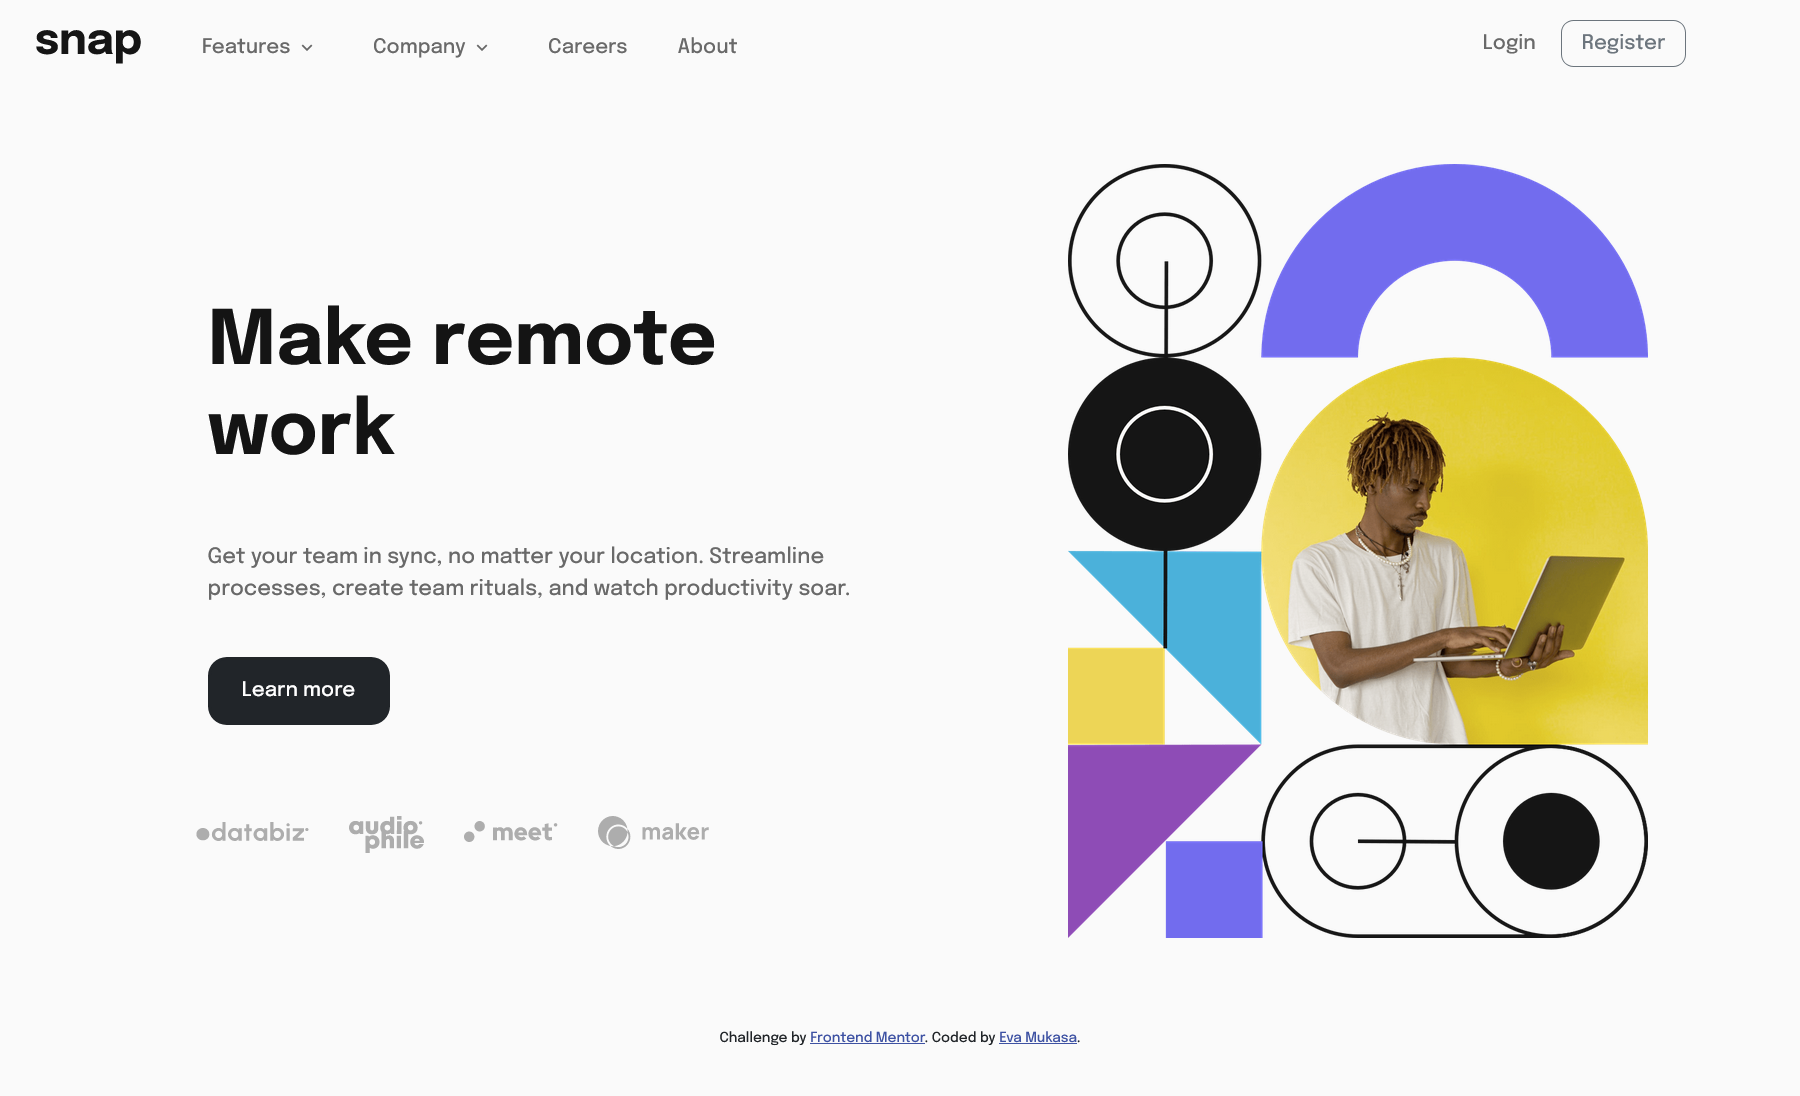
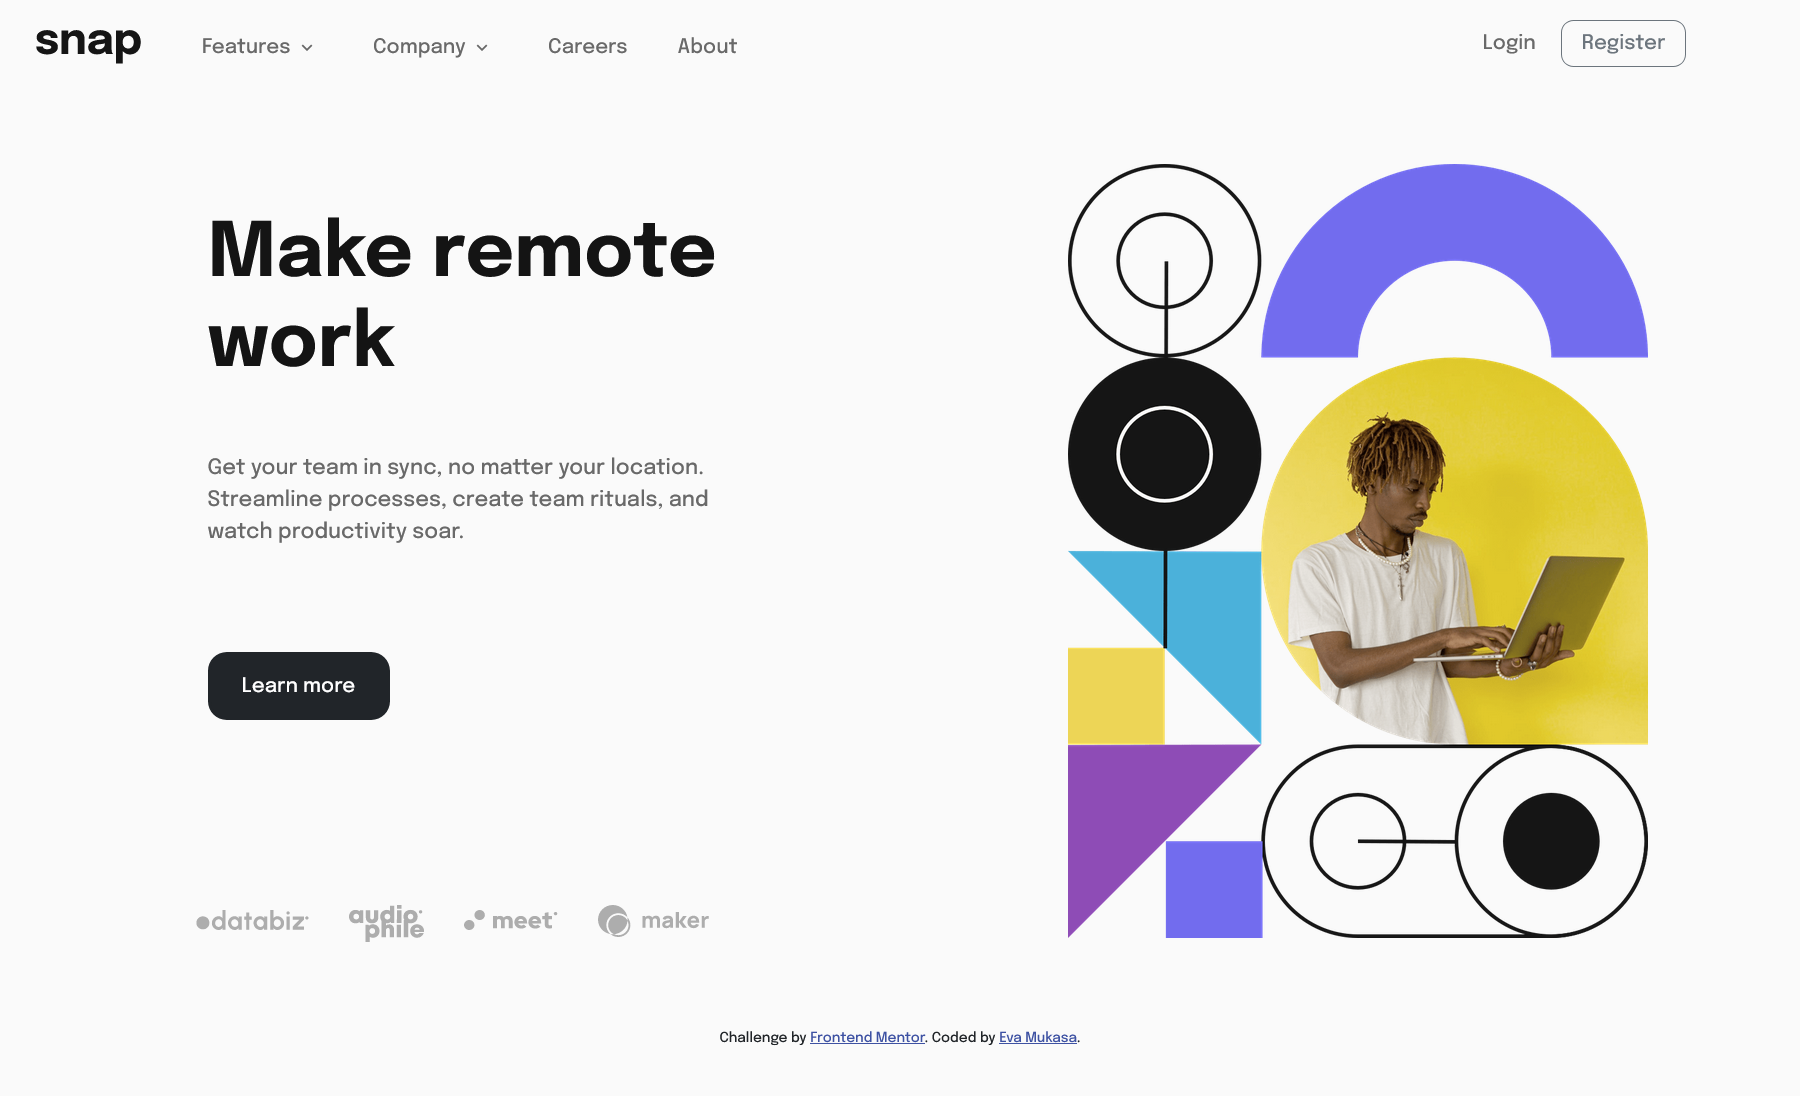
Solution

diff --git a/css/style.css b/css/style.css
@@ -12059,7 +12059,7 @@ h1, .h1 {
 }
 @media (min-width: 992px) {
   .paragraph {
-    margin: 5% 14% 5% 20%;
+    margin: 5% 25% 5% 20%;
   }
 }
 .socialLink {
@@ -12089,6 +12089,7 @@ h1, .h1 {
   .CTA {
     padding: 13px 25px;
     margin-left: 20%;
+    margin-top: 5%;
   }
 }
 .socialLink:nth-child(2) {
@@ -12107,7 +12108,7 @@ h1, .h1 {
 @media (min-width: 992px) {
   .socialRow {
     margin-left: 17%;
-    margin-top: 3%;
+    margin-top: 12%;
   }
   .socialLink:nth-child(1) {
     width: 90px;

diff --git a/scss/style.scss b/scss/style.scss
@@ -208,7 +208,7 @@ h1{
 }
 @media(min-width:992px){
     .paragraph{
-        margin: 5% 14% 5% 20%;
+        margin: 5% 25% 5% 20%;
     }
 }
 .socialLink {
@@ -235,6 +235,8 @@ h1{
     .CTA{
         padding: 13px 25px;
         margin-left:20%;
+        margin-top: 5%;
+        
     }
 }
 
@@ -253,7 +255,7 @@ h1{
 @media(min-width:992px){
     .socialRow{
         margin-left:17%;
-        margin-top: 3%;
+        margin-top: 12%;
     }
     .socialLink:nth-child(1){
        width:90px;
